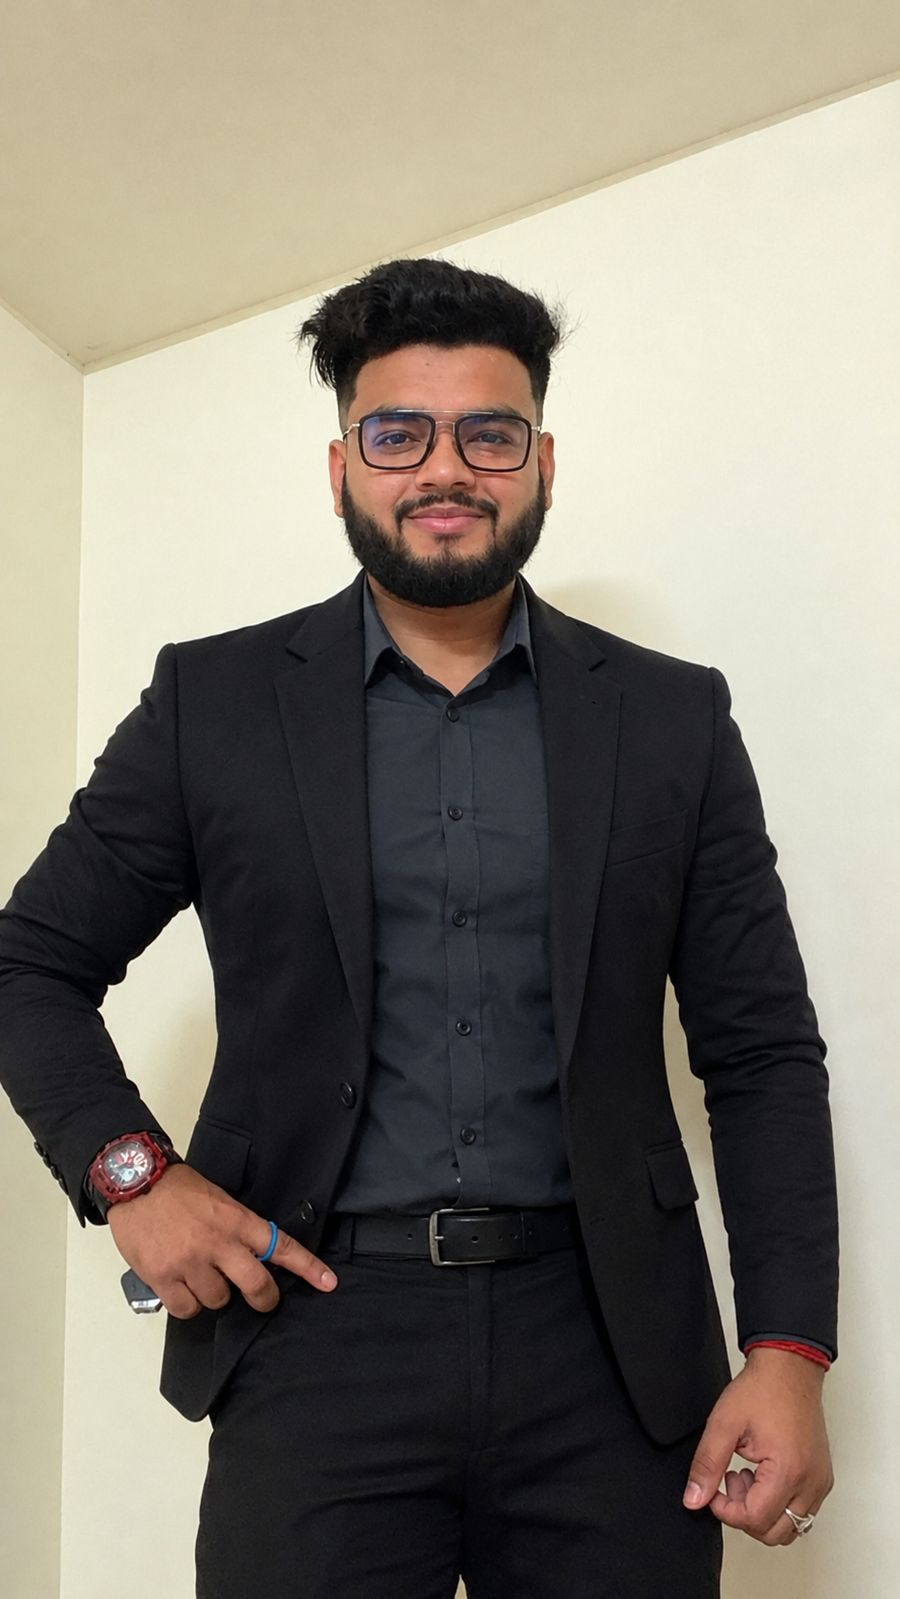
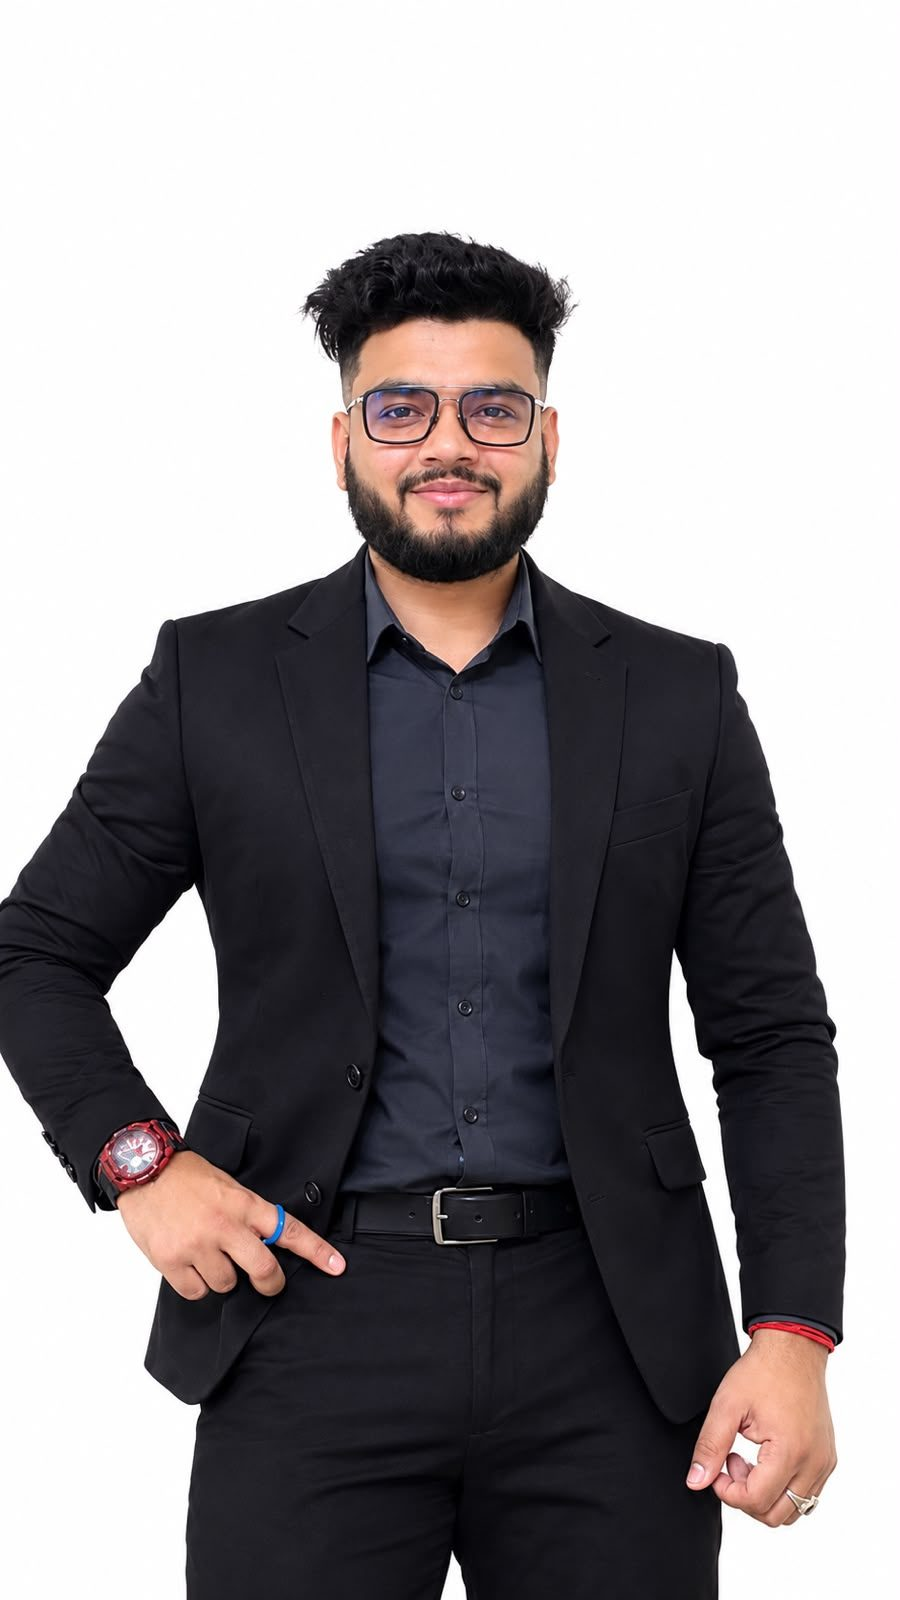
Use the new photo of Dr. Dibyajit Mitra in the About section

diff --git a/website/index.html b/website/index.html
@@ -683,7 +683,7 @@
   <section class="section about" id="about">
     <div class="wrap about-grid">
       <div class="doc-card reveal">
-        <img src="img/dr-dibyajit-mitra.jpg" alt="Dr. Dibyajit Mitra, sports physiotherapist" loading="lazy" width="900" height="1599">
+        <img src="img/dr-dibyajit-mitra.jpg" alt="Dr. Dibyajit Mitra, sports physiotherapist" loading="lazy" width="900" height="1600">
         <div class="name">Dr. Dibyajit Mitra</div>
         <div class="role">MPT (Sports) · Sports Physiotherapist</div>
       </div>
